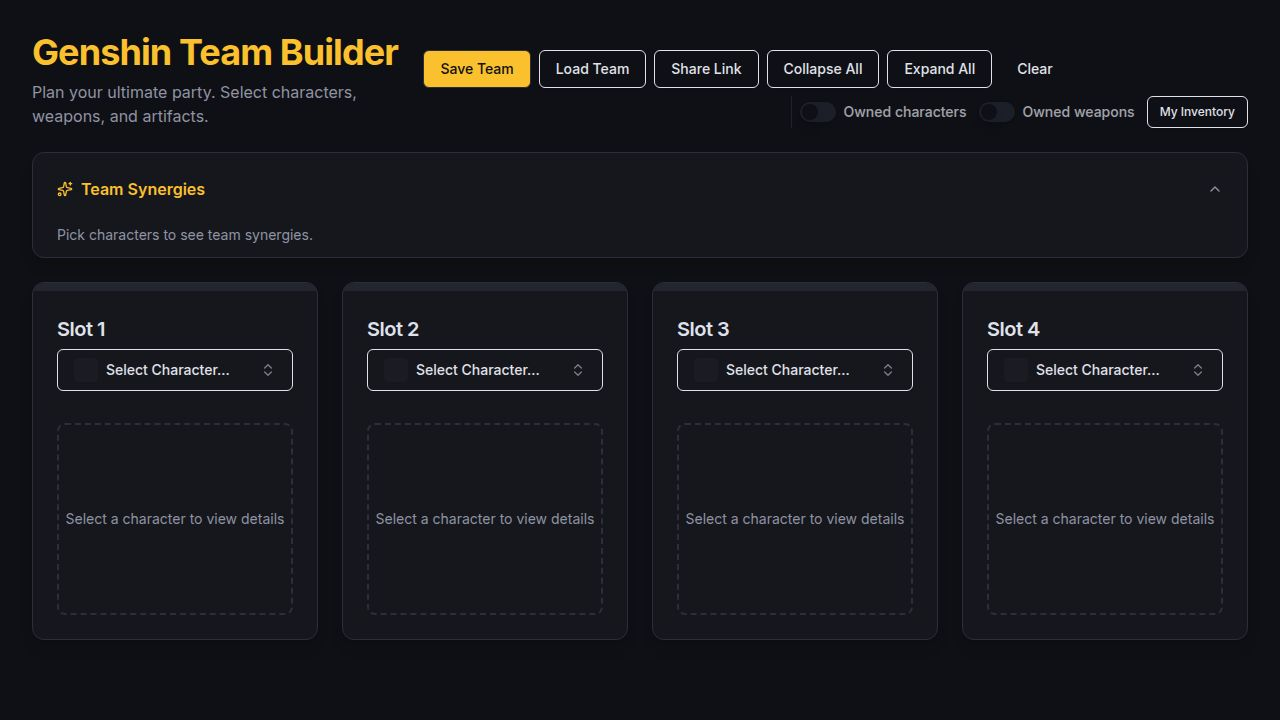
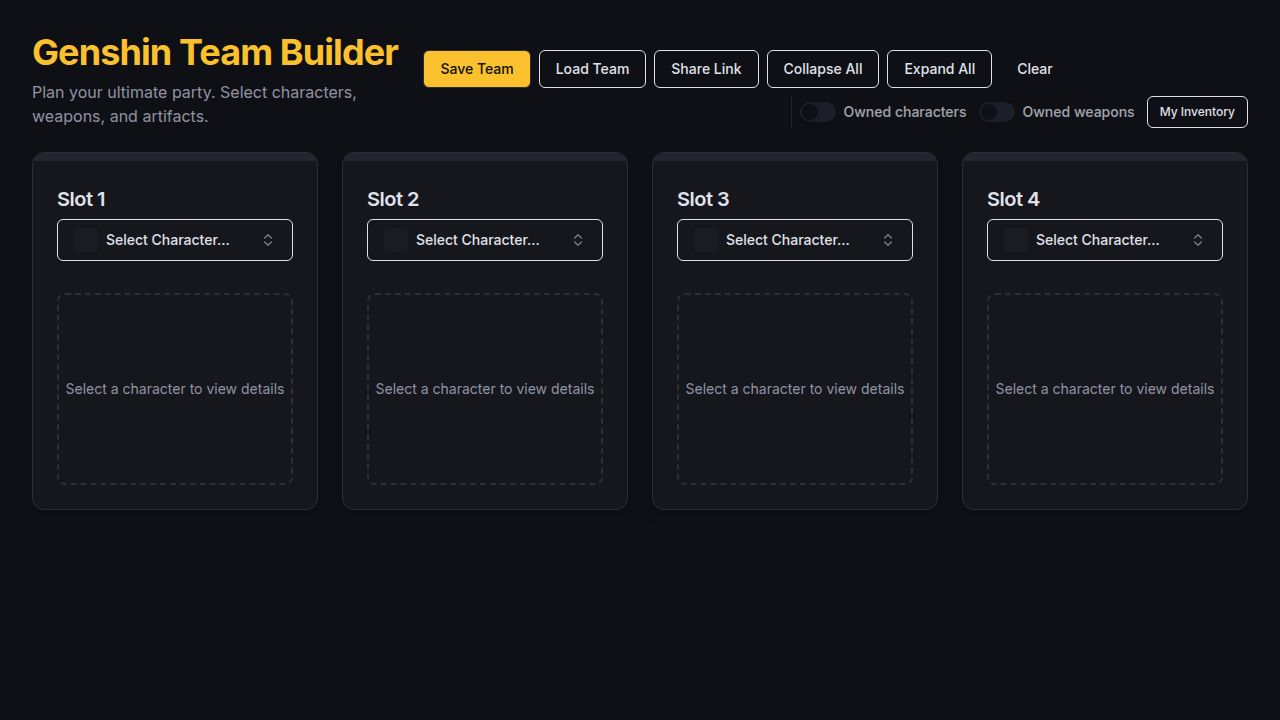
Add new artifact sets and update data verification scripts
Update ARTIFACT_NAMES array in src/lib/genshin.ts to include six new artifact sets and add a verification script to ensure data consistency.

Replit-Commit-Author: Agent
Replit-Commit-Session-Id: 3ed79459-6076-48ad-b17e-dc777c6febb0
Replit-Commit-Checkpoint-Type: full_checkpoint
Replit-Commit-Event-Id: c8cb9ff5-db86-4b14-8486-07ca442fdad0
Replit-Commit-Screenshot-Url: https://storage.googleapis.com/screenshot-production-us-central1/0577a6b1-d269-46aa-bc97-c9eea2cbce67/3ed79459-6076-48ad-b17e-dc777c6febb0/ZxcxXc8
Replit-Helium-Checkpoint-Created: true

diff --git a/artifacts/genshin-teambuilder/src/lib/genshin.ts b/artifacts/genshin-teambuilder/src/lib/genshin.ts
@@ -102,9 +102,11 @@ export const ARTIFACT_NAMES = [
   "Blizzard Strayer",
   "Bloodstained Chivalry",
   "Brave Heart",
+  "Celestial Gift",
   "Crimson Witch of Flames",
   "Deepwood Memories",
   "Defender's Will",
+  "Disenchantment in Deep Shadow",
   "Desert Pavilion Chronicle",
   "Echoes of an Offering",
   "Emblem of Severed Fate",
@@ -131,6 +133,10 @@ export const ARTIFACT_NAMES = [
   "Obsidian Codex",
   "Ocean-Hued Clam",
   "Pale Flame",
+  "Prayers for Destiny",
+  "Prayers for Illumination",
+  "Prayers for Wisdom",
+  "Prayers to Springtime",
   "Resolution of Sojourner",
   "Retracing Bolide",
   "Scholar",